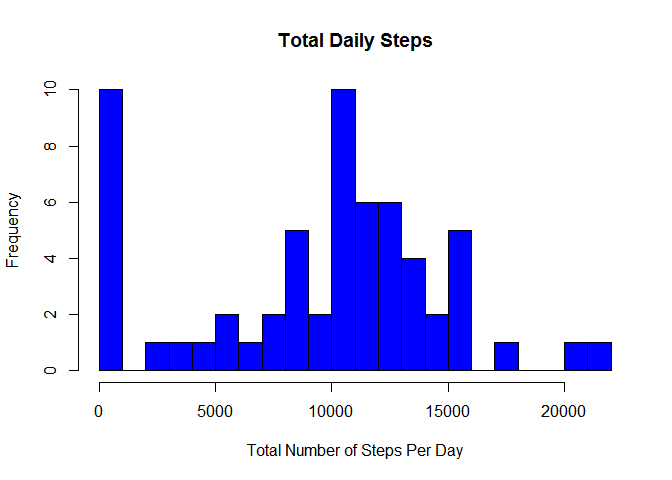
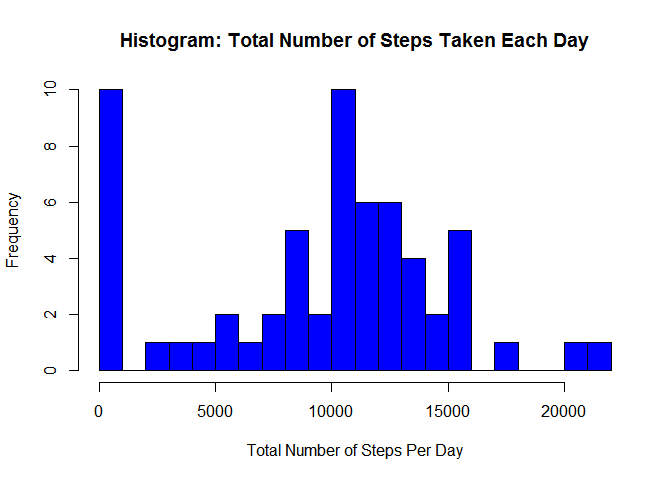
Final Fix to Final

Changed region(s): [[0.1562, 0.0625, 0.5625, 0.125], [0.6562, 0.0625, 0.875, 0.125]]

diff --git a/PA1_template.html b/PA1_template.html
@@ -122,10 +122,10 @@ head(stepdata)</code></pre>
 ## 6 2012-10-06       15420</code></pre>
 <pre class="r"><code>hist(stepdata$total_steps, 
      breaks=20, 
-     main=&quot;Total Daily Steps&quot;, 
+     main=&quot;Histogram: Total Number of Steps Taken Each Day&quot;, 
      xlab=&quot;Total Number of Steps Per Day&quot;,
      col=&quot;blue&quot;)</code></pre>
[2 lines of base64/hex data omitted]
 <pre class="r"><code>rbind(mean = mean(stepdata$total_steps, na.rm = TRUE), 
       median = median(stepdata$total_steps, na.rm = TRUE))</code></pre>
 <pre><code>##            [,1]
@@ -154,11 +154,11 @@ head(intervalData)</code></pre>
 ## 6       25 2.0943396</code></pre>
 <pre class="r"><code>g = ggplot(intervalData, aes(x=interval, y=intAve)) +
      geom_line() +
-     xlab(&quot;Interval&quot;) + 
-     ylab(&quot;Number of Steps&quot;) +
-     ggtitle(&quot;Average Interval Steps&quot;)
+     xlab(&quot;5-minute Interval&quot;) + 
+     ylab(&quot;Average Number of Steps&quot;) +
+     ggtitle(&quot;Average Number of Steps vs. 5-minute Interval&quot;)
 g</code></pre>
[2 lines of base64/hex data omitted]
 <ol start="2" style="list-style-type: decimal">
 <li>Which 5-minute interval, on average across all the days in the dataset, contains the maximum number of steps?</li>
 </ol>
@@ -168,7 +168,7 @@ g</code></pre>
 ##   interval   intAve
 ##      (int)    (dbl)
 ## 1      835 206.1698</code></pre>
-<p>From this we see (and is corroborated by the figure above) that the max of 206.2 steps was earned during the 5-minute interval that began at 0835.</p>
+<p><strong>From this we see (and is corroborated by the figure above) that the max of 206.2 steps was earned during the 5-minute interval that began at 0835.</strong></p>
 </div>
 <div id="imputing-missing-values" class="section level2">
 <h2>Imputing missing values</h2>
@@ -181,7 +181,7 @@ g</code></pre>
 <ol start="2" style="list-style-type: decimal">
 <li>Devise a strategy for filling in all of the missing values in the dataset. The strategy does not need to be sophisticated. For example, you could use the mean/median for that day, or the mean for that 5-minute interval, etc.</li>
 </ol>
-<p>Since people’s daily schedules are not synchronized down to 5-minute intervals, i will not use the mean 5-minute step count for the corresponding interval for the gap-fil. To be slightly conservative, I will instead use the mean 5-minute stepcount for the entire data set.</p>
+<p><strong>Since people’s daily schedules are not synchronized down to 5-minute intervals, i will not use the mean 5-minute step count for the corresponding interval for the gap-fil. To be slightly conservative, I will instead use the mean 5-minute stepcount for the entire data set. </strong></p>
 <ol start="3" style="list-style-type: decimal">
 <li>Create a new dataset that is equal to the original dataset but with the missing data filled in.</li>
 </ol>
@@ -219,10 +219,10 @@ head(stepdataNew)</code></pre>
 ## 6 2012-10-06    15420.00</code></pre>
 <pre class="r"><code>hist(stepdataNew$total_steps, 
      breaks=20, 
-     main=&quot;Total Daily Steps - with gap-filling&quot;, 
+     main=&quot;Total Daily Steps - Missing Values Inputed&quot;, 
      xlab=&quot;Total Number of Steps Per Day&quot;,
      col=&quot;blue&quot;)</code></pre>
[2 lines of base64/hex data omitted]
 <pre class="r"><code>rbind(mean = mean(stepdataNew$total_steps), 
       median = median(stepdataNew$total_steps))</code></pre>
 <pre><code>##            [,1]

diff --git a/PA1_template.md b/PA1_template.md
@@ -68,7 +68,7 @@ head(stepdata)
 ```r
 hist(stepdata$total_steps, 
      breaks=20, 
-     main="Total Daily Steps", 
+     main="Histogram: Total Number of Steps Taken Each Day", 
      xlab="Total Number of Steps Per Day",
      col="blue")
 ```
@@ -115,9 +115,9 @@ head(intervalData)
 ```r
 g = ggplot(intervalData, aes(x=interval, y=intAve)) +
      geom_line() +
-     xlab("Interval") + 
-     ylab("Number of Steps") +
-     ggtitle("Average Interval Steps")
+     xlab("5-minute Interval") + 
+     ylab("Average Number of Steps") +
+     ggtitle("Average Number of Steps vs. 5-minute Interval")
 g
 ```
 
@@ -136,8 +136,8 @@ intervalData[which.max(intervalData$intAve),]
 ##      (int)    (dbl)
 ## 1      835 206.1698
 ```
-From this we see (and is corroborated by the figure above) that the max of 206.2 steps was earned
-during the 5-minute interval that began at 0835.
+**From this we see (and is corroborated by the figure above) that the max of 206.2 steps was earned
+during the 5-minute interval that began at 0835.**
 
 
 
@@ -157,8 +157,8 @@ sum(is.na(data$steps))
 
 2. Devise a strategy for filling in all of the missing values in the dataset. The strategy does not need to be sophisticated. For example, you could use the mean/median for that day, or the mean for that 5-minute interval, etc.
 
-Since people's daily schedules are not synchronized down to 5-minute intervals, i will not use
-the mean 5-minute step count for the corresponding interval for the gap-fil. To be slightly conservative, I will instead use the mean 5-minute stepcount for the entire data set. 
+**Since people's daily schedules are not synchronized down to 5-minute intervals, i will not use
+the mean 5-minute step count for the corresponding interval for the gap-fil. To be slightly conservative, I will instead use the mean 5-minute stepcount for the entire data set. **
 
 3. Create a new dataset that is equal to the original dataset but with the missing data filled in.
 
@@ -214,7 +214,7 @@ head(stepdataNew)
 ```r
 hist(stepdataNew$total_steps, 
      breaks=20, 
-     main="Total Daily Steps - with gap-filling", 
+     main="Total Daily Steps - Missing Values Inputed", 
      xlab="Total Number of Steps Per Day",
      col="blue")
 ```
